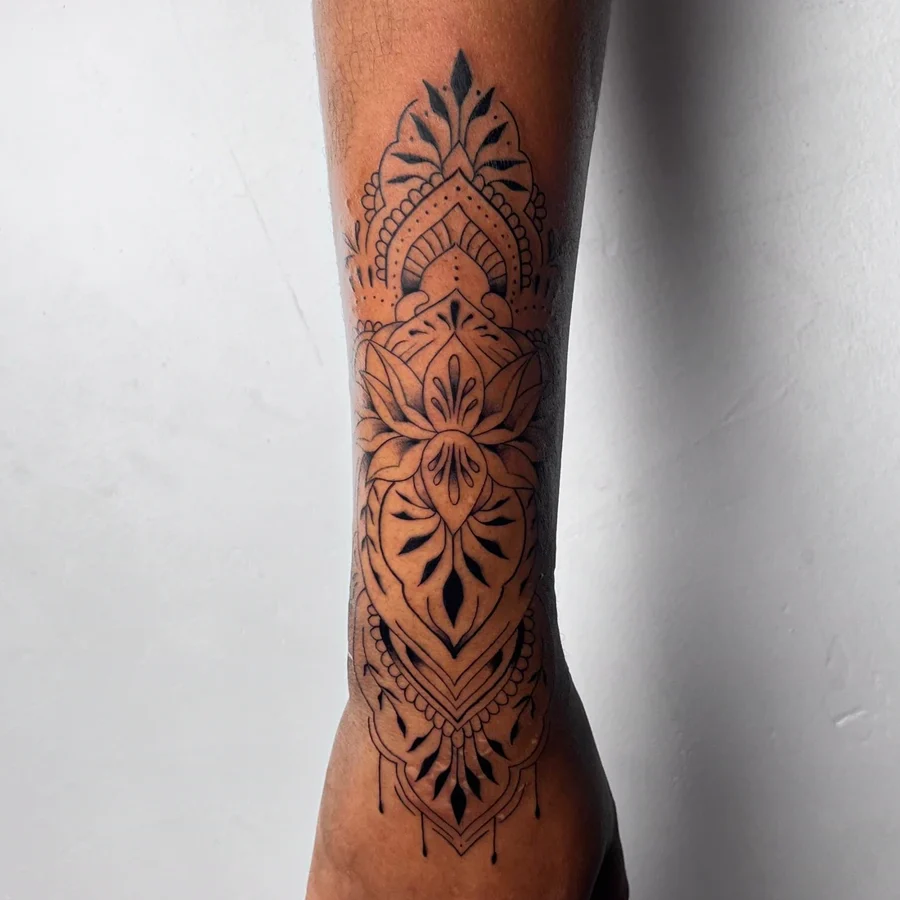
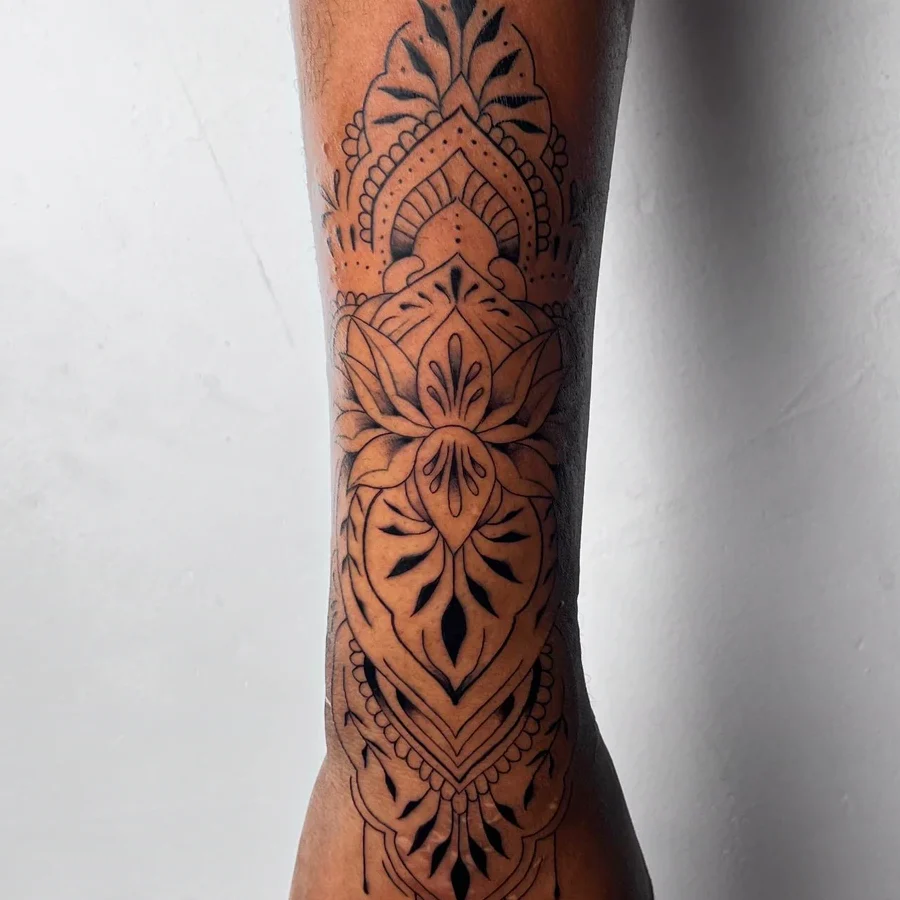
Portas: onca e ornamental mais perto; cobertura so com antes e o rosto nitido
Porta de realismo: onca com peonias (versao sem a espinha) no lugar do leao do antebraco, que o Moacir nao gostou; recorte quadrado no rosto e nas peonias. Porta de delicadas: ornamental com mais zoom. Titulo 'Qual e o seu estilo?' menor e discreto.

Bloco de cobertura da home: saem a foto distante do depois e o close largo; fica Antes + Depois, sendo o depois a foto de processo nitida (foto20, recorte 4:5 com o rosto no centro, cobertura-pantera-depois-rosto.webp). Fotos sem uso apagadas.

diff --git a/index.html b/index.html
@@ -590,6 +590,11 @@ h1, .sec-head h2, .studio h2, .contact h2, .ad-texto h2, .score{font-weight:400;
   .stage .pcard .face{border-color:var(--gold);}
   .stage .pcard::after{content:""; position:absolute; inset:-14px; border:1px solid rgba(201,169,110,.5); transform:none; pointer-events:none;}
 }
+
+/* "Qual e o seu estilo?" discreto: quem manda na secao sao as fotos */
+#trabalhos .sec-head{margin-bottom:26px; gap:10px;}
+#trabalhos .sec-head h2{font-size:clamp(26px,2.8vw,34px);}
+#trabalhos .sec-head p{font-size:14px;}
 </style>
 
 <!-- Google tag (gtag.js) — um loader, dois destinos: Analytics + Google Ads -->
@@ -688,7 +693,7 @@ h1, .sec-head h2, .studio h2, .contact h2, .ad-texto h2, .score{font-weight:400;
       <!-- duas portas em vez de grade misturada: quem quer delicada nao precisa ver fechamento, e vice-versa -->
       <div class="portas">
         <a class="porta reveal" href="preto-e-cinza.html">
-          <div class="porta-fotos"><img src="porta-realismo.webp" width="900" height="900" loading="lazy" decoding="async" alt="Tatuagem realista de leão com coroa de espinhos no antebraço, preto e cinza"></div>
+          <div class="porta-fotos"><img src="porta-realismo.webp" width="900" height="900" loading="lazy" decoding="async" alt="Tatuagem de onça com peônias na coxa, realismo em preto e cinza"></div>
           <div class="porta-txt">
             <h3>Preto e cinza <em>&amp; realismo</em></h3>
             <p>Animais, retratos, fechamento de braço e costas — sombra, textura e profundidade.</p>
@@ -841,8 +846,7 @@ h1, .sec-head h2, .studio h2, .contact h2, .ad-texto h2, .score{font-weight:400;
 <div class="ad-bloco reveal">
 <div class="ad-fotos">
 <figure><img src="mini/cobertura-pantera-antes.webp" width="1200" height="1500" loading="lazy" decoding="async" alt="Antes: tatuagem antiga no antebraço, apagada e sem forma definida"><figcaption>Antes</figcaption></figure>
-<figure><img src="cobertura-pantera-depois-perto.webp" width="520" height="650" loading="lazy" decoding="async" alt="Depois: pantera negra com flor de lótus cobrindo a tatuagem antiga no antebraço"><figcaption>Depois</figcaption></figure>
-<figure class="detalhe"><img src="cobertura-pantera-detalhe-rosto.webp" width="1040" height="693" loading="lazy" decoding="async" alt="Detalhe do rosto da pantera negra em preto e cinza, com os olhos e os bigodes de perto"><figcaption>O rosto de perto</figcaption></figure>
+<figure><img src="cobertura-pantera-depois-rosto.webp" width="720" height="900" loading="lazy" decoding="async" alt="Depois: pantera negra com flor de lótus cobrindo o nome antigo no antebraço, rosto nítido logo após a sessão"><figcaption>Depois</figcaption></figure>
 </div>
 <div class="ad-texto">
 <span class="num">Cobertura</span>
